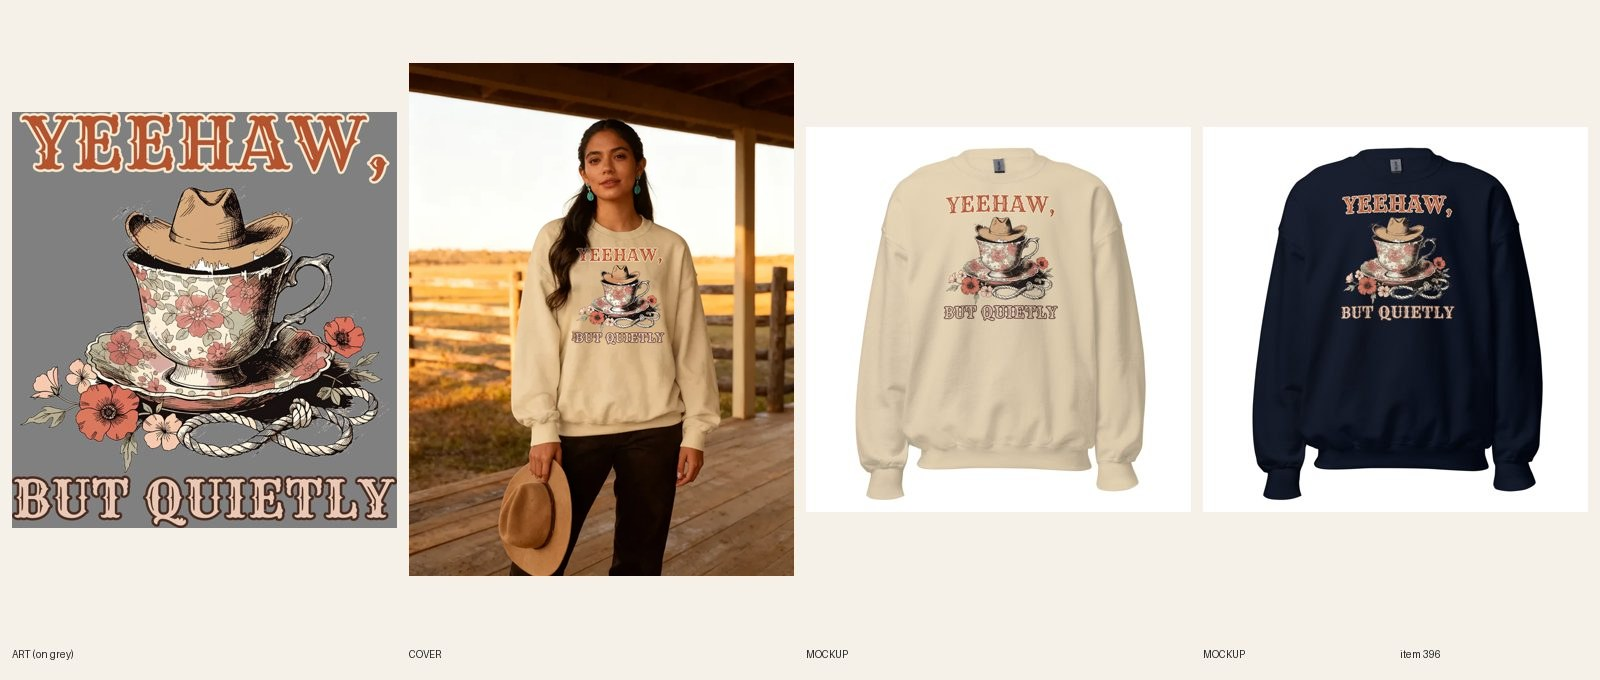
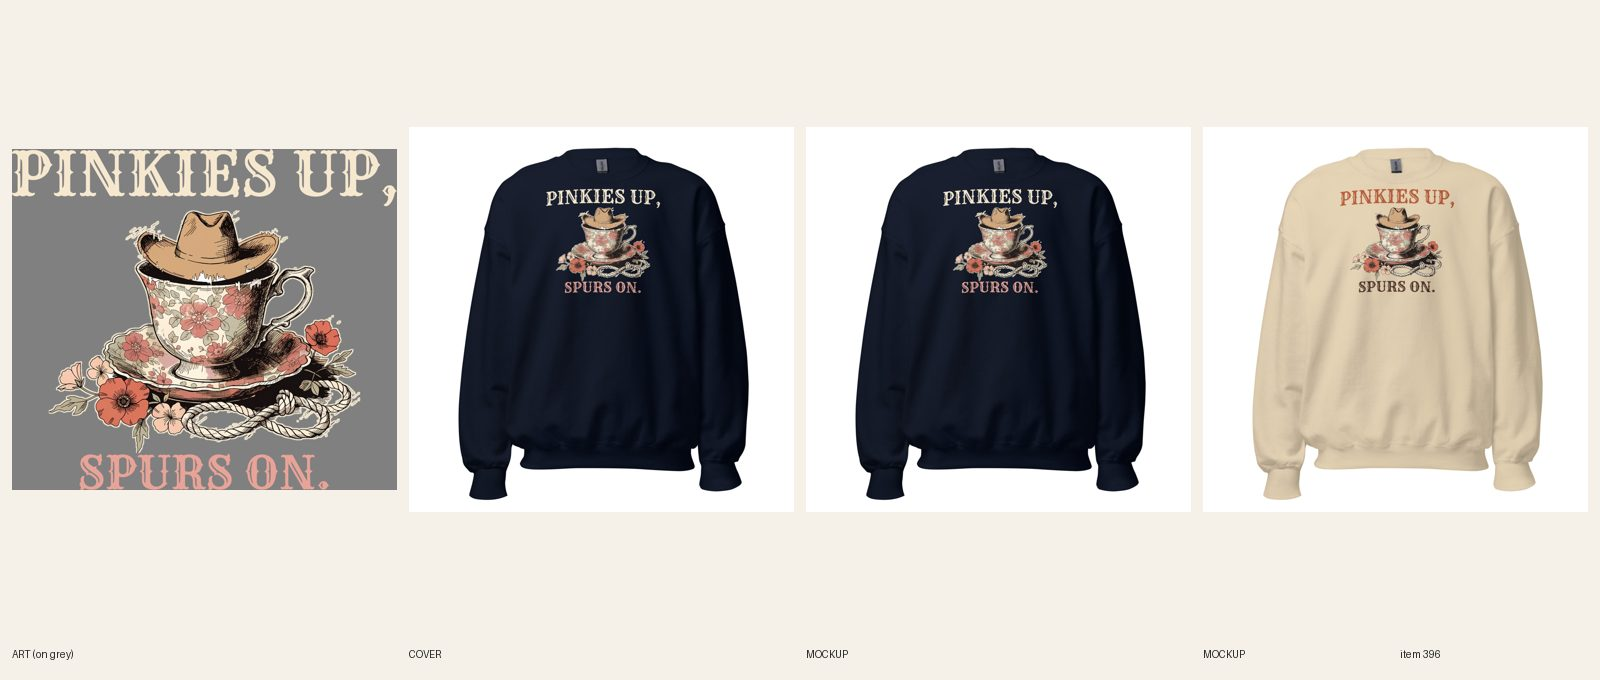
[B] review 396 Pinkies Up Spurs On western crewneck (line + type redo)

diff --git a/docs/pipeline/396-western-crew-yeehaw-responsibly.md b/docs/pipeline/396-western-crew-yeehaw-responsibly.md
@@ -1,4 +1,4 @@
-status: REDO
+status: REVIEW
 shopify: gid://shopify/Product/15363411345712
 lane: B
 type: new
@@ -38,3 +38,4 @@ kd: 55
 - 2026-10-17 23:45 UTC builder [B]: REDO 1 done (R6.9 composite, no fal): scripts/cover-composite.py fitted the exact yq-print.png onto her chest (140 px wide on the 600 px cover, old print inpainted away, multiply shading from the photo), the hair tip that lay over the Y repainted as sweatshirt so the hair stays behind the shoulder. Read YEEHAW, / BUT QUIETLY letter by letter: all letters clear. Person, scene, garment unchanged. Sheet docs/review/396.jpg updated. Set REVIEW.
 - 2026-10-18 00:17 UTC director: LIVE. Composite cover reads YEEHAW, / BUT QUIETLY letter by letter, print reads on Sand and Navy. ACTIVE + Online Store/Headless/Google & YouTube, audit PASS 0 warn.
 - 2026-10-18 17:22 UTC director: QUALITY RESET grade C (new line + type), REDO. The product stays ACTIVE (same handle, URL, title keyword). 1. Line (R3.12, quality-reset 'Lines'): "YEEHAW, / BUT QUIETLY": Noun + mild aside; teacup-cowboy contrast doesn't land as a joke. Write 5 candidates, keep the one a stranger laughs at in 3 seconds without backstory; kill lines that only describe the picture; if none of the 5 is funny, PARK it. 2. Quality reset type bar (docs/backlog/quality-reset.md, 'The new bar'): headline at least 90% of the art width, heavy, colors pulled from the art; second line at least 45% of the headline's height, never a thin script on a dark or mid garment; use the lettering as a shape (arch, stacked lockup, words breaking into the art), not a plain bar above and a script line below; no font used on more than 1 in 6 of the last 30 designs. 3. Keep the art if it carries the new line, else one new illustration (R4/R5). New print means a new cover per R6.10, copy line one rewritten for the new joke (R8.3), and a fresh review sheet (R7.7). While quality-reset.md says PAUSED, only lane A builds, and only the samples step 2 names.
+- 2026-10-20 07:45 UTC builder [B]: REDO 396 (C grade, line + type) done in place (stays ACTIVE, handle unchanged; title now "Women's Western – Pinkies Up, Spurs On Crewneck Sweatshirt"). 5 candidates: "PINKIES UP, / SPURS ON."; "Tea Party. Rodeo Rules."; "Sweet Tea, Sharp Spurs"; "Yeehaw, But Quietly" (old); "Ladylike Until Eight Seconds". Kept PINKIES UP, / SPURS ON. (polite teacup against the cowgirl hat, the contrast is the joke, 3 seconds). Same teacup art, no fal ($0). Rye at full print width (headline 123% of art width), second line 63% of headline height. Navy file 1090166739 (cream + pink, thin cream halo); Sand light file 1090166751 (headline fill rust, second line dark brown; light file logged for Sand). FW 1650 TOP 0 (crewneck, 10 in tall). 12/12 synced on the right file per color, back logo kept. Fronts + back replaced in place, alts, title, SEO, copy updated (ink named from the mockups). Phone-size read OK on both. Cover: handle added to retired-covers.json. audit --handle PASS 0 warn. Sheet docs/review/396.jpg.

diff --git a/docs/intake-log.md b/docs/intake-log.md
@@ -1,4 +1,5 @@
 2026-10-20 04:29 UTC — [D] Director run (RESUMED). LIVE 6 (cap): #477 #481 #501 #558 #579 #632 (approved 02:16 and held; all already ACTIVE on Online Store, Headless, Google & YouTube; audit --handle PASS 0 warn each). Reviewed 20 new redo sheets side by side with 493 and 483: approved and held 15 (#221 #237 #246 #251 #252 #323 #365 #386 #395 #409 #443 #552 #554 #561 #635); REDO 5: #362 #404 #440 (punchline set at 45–60% of the headline's width; new rulebook line under R3.7.8, 4 hits in one run), #366 (SHELLFISH sound-alike pun, R3.1), #388 (empty calendar boxes read as free, R5.3.4). Shopify: 9 approved redos retitled to their printed lines (#221 #237 #246 #251 #252 #323 #552 #554 #561, handles unchanged) and 3 metas trimmed under 155 (#323 #554 #561). Inbox (Sam's Black Friday order): /black-friday/ built and live (200; 8 A-grade doorbusters, 5 FAQs, schema), linked from the sale banner, footer and gift guides; sweatpants audit support + rulebook lines + 5 lane C briefs #711–#715 (builder card: ahead of lane C REDOs, one per run). Telegram: one message to Sam with the page link and two decisions (the Black Friday deal; a 10% set discount). No digest (not due). READY: A 12, B 12, C 12 (+5 sweatpants), E 12. Helper note: `astro check` reports 2 duplicate keys in src/data/covers.ts (mens-pirate-pillaging-is-a-young-mans-game-hoodie line 419, womens-crochet-no-i-wont-make-you-one-hoodie line 564); the build passes, but the later entry silently wins. Held for next runs, in order: #649 #205 #217 #219 #326 #356 #358 #650, then the 15 above, then the 31 add-ons. Lock released.
+2026-10-20 04:41 UTC — [B] Builder run: redid #396 Women's Western crewneck (line + type: PINKIES UP, / SPURS ON., same teacup art, Rye, Navy + Sand light files, 12/12 synced). REVIEW. fal $0.
 RUNNING director since 2026-10-20 04:12 UTC
 2026-10-20 04:34 UTC — [B] Builder run: redid #519 Women's Knitting crewneck (line + type: ONE MORE ROW / FAMOUS LAST WORDS., new armchair art, Bowlby One, Sand + Light Pink dark-ink file, 12/12 synced). REVIEW. fal $0.04.
 2026-10-20 04:22 UTC — [B] Builder run: redid #513 Women's Dachshund crewneck (line + type: SEE YOU / IN APRIL., new quilt-dachshund art, Big Shoulders, Sand + Sport Grey dark-ink file, 12/12 synced). REVIEW. fal $0.04.
